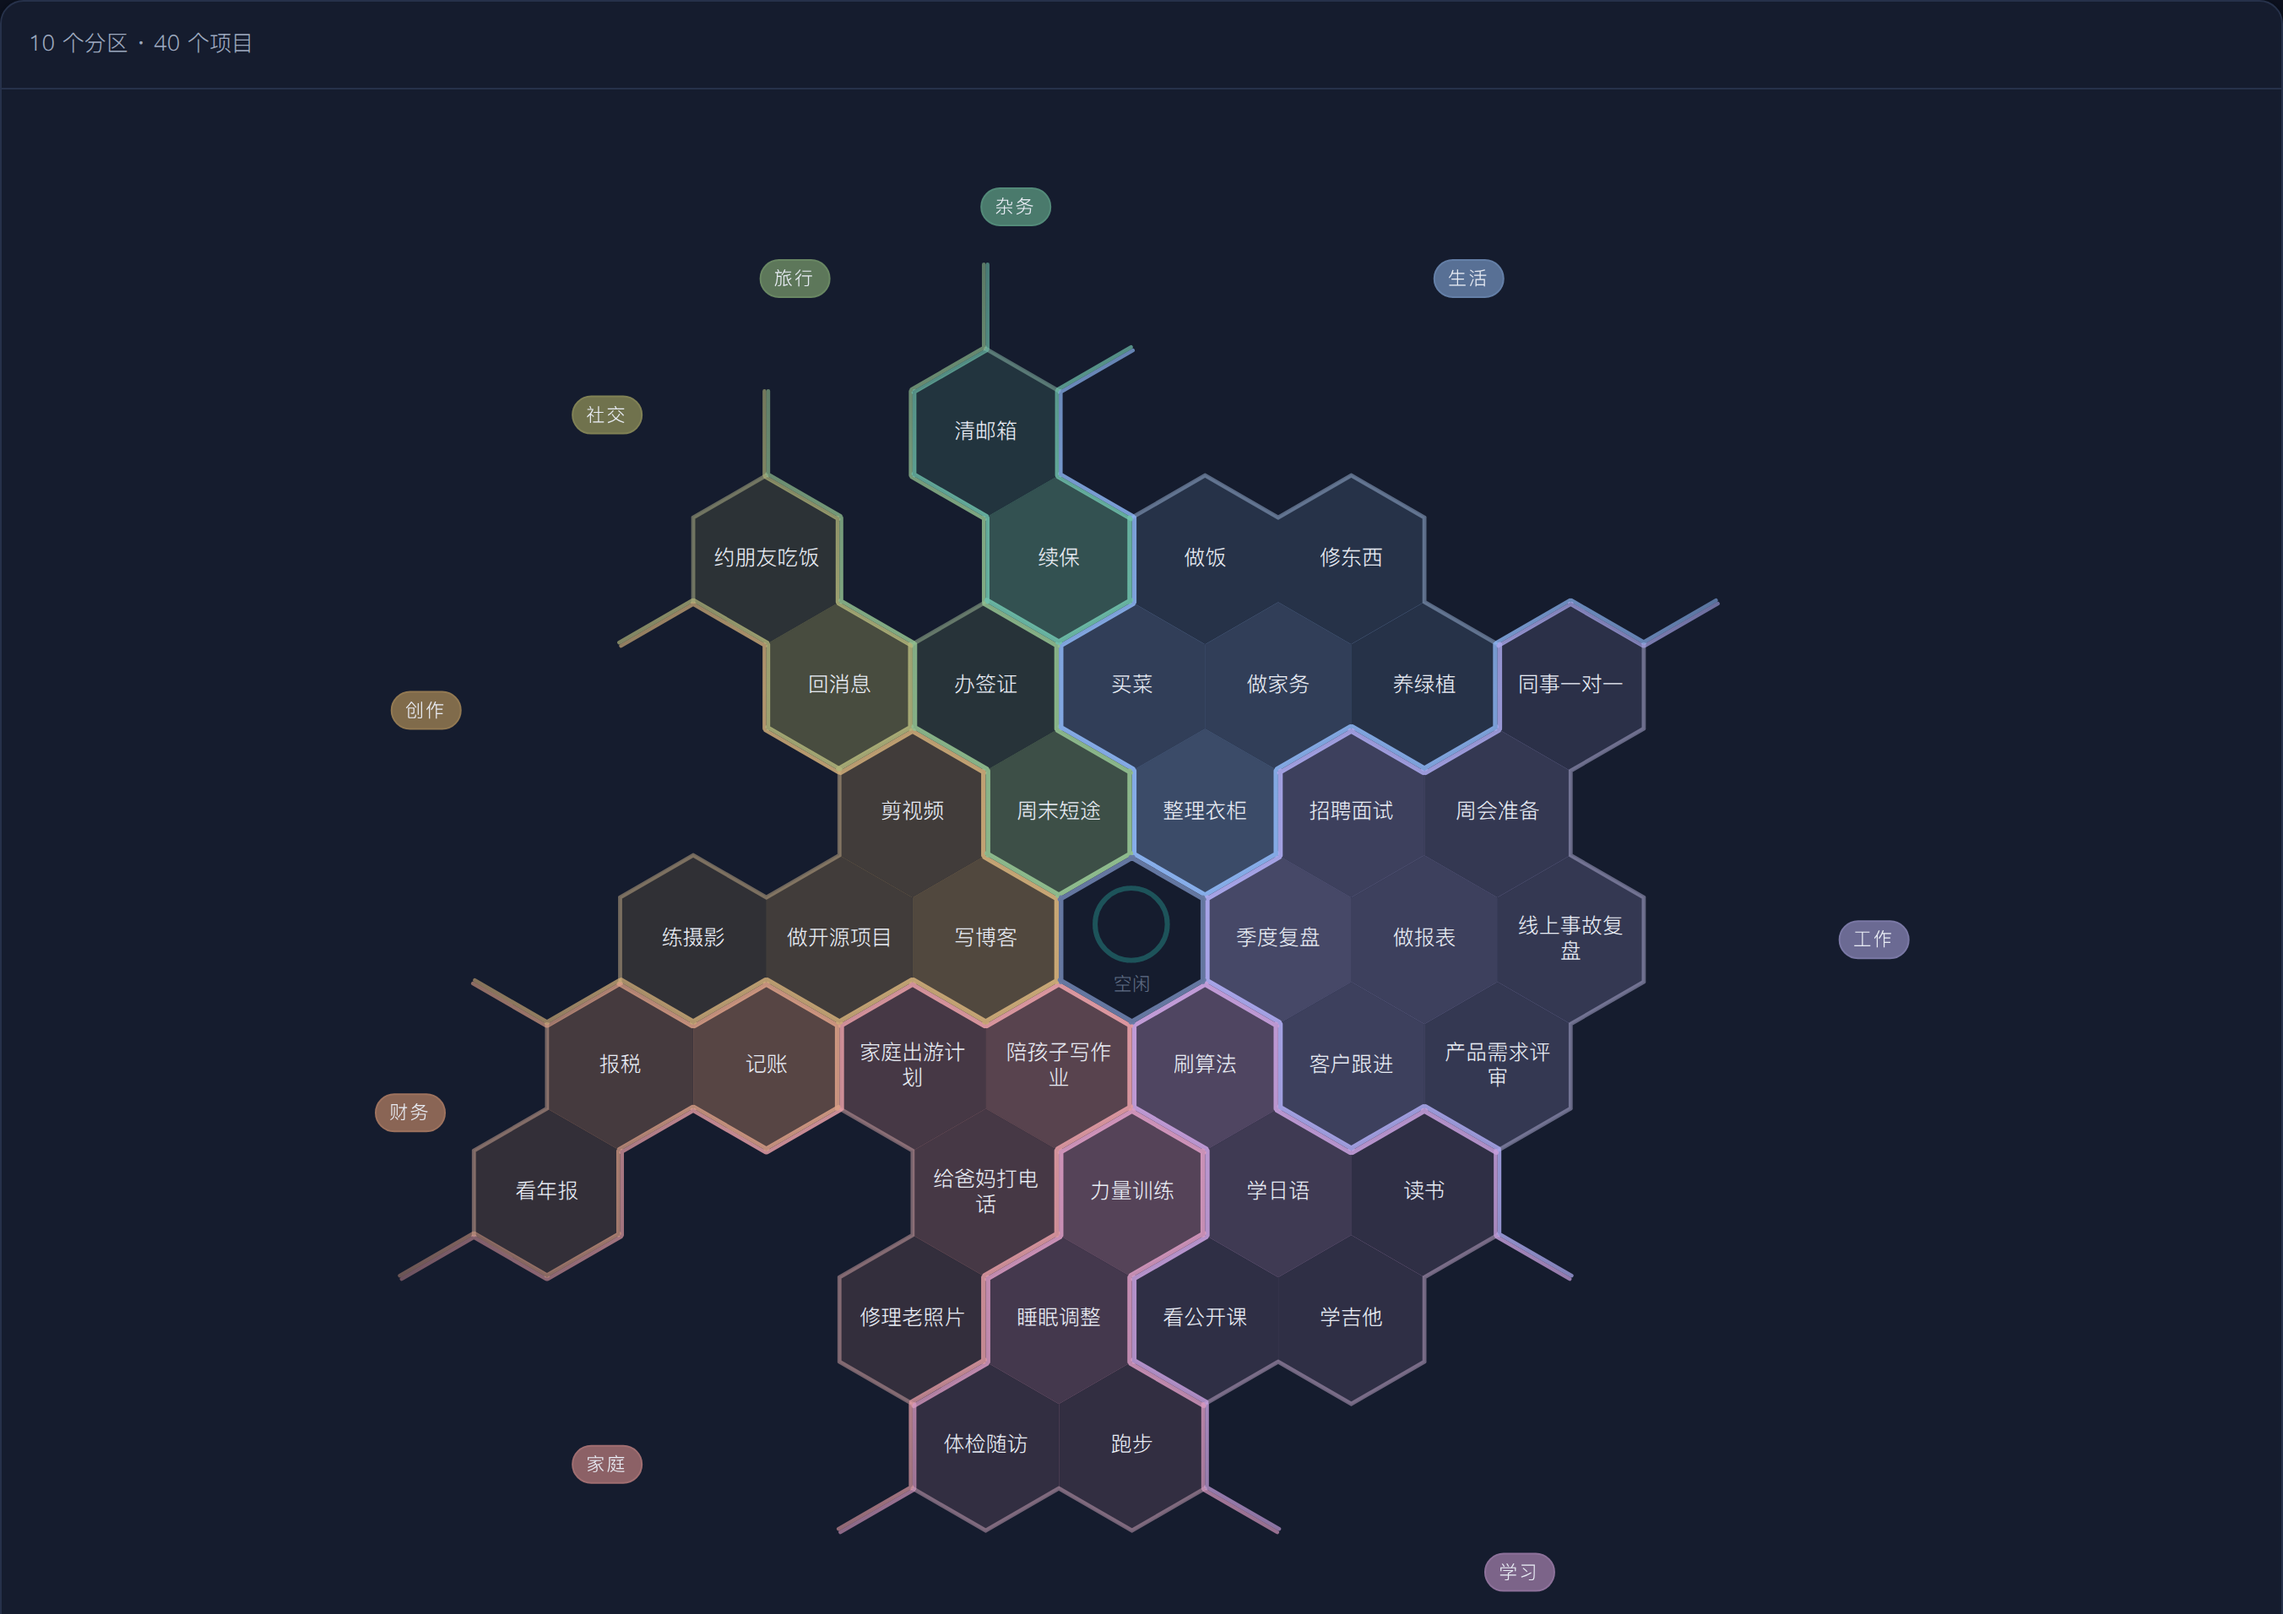
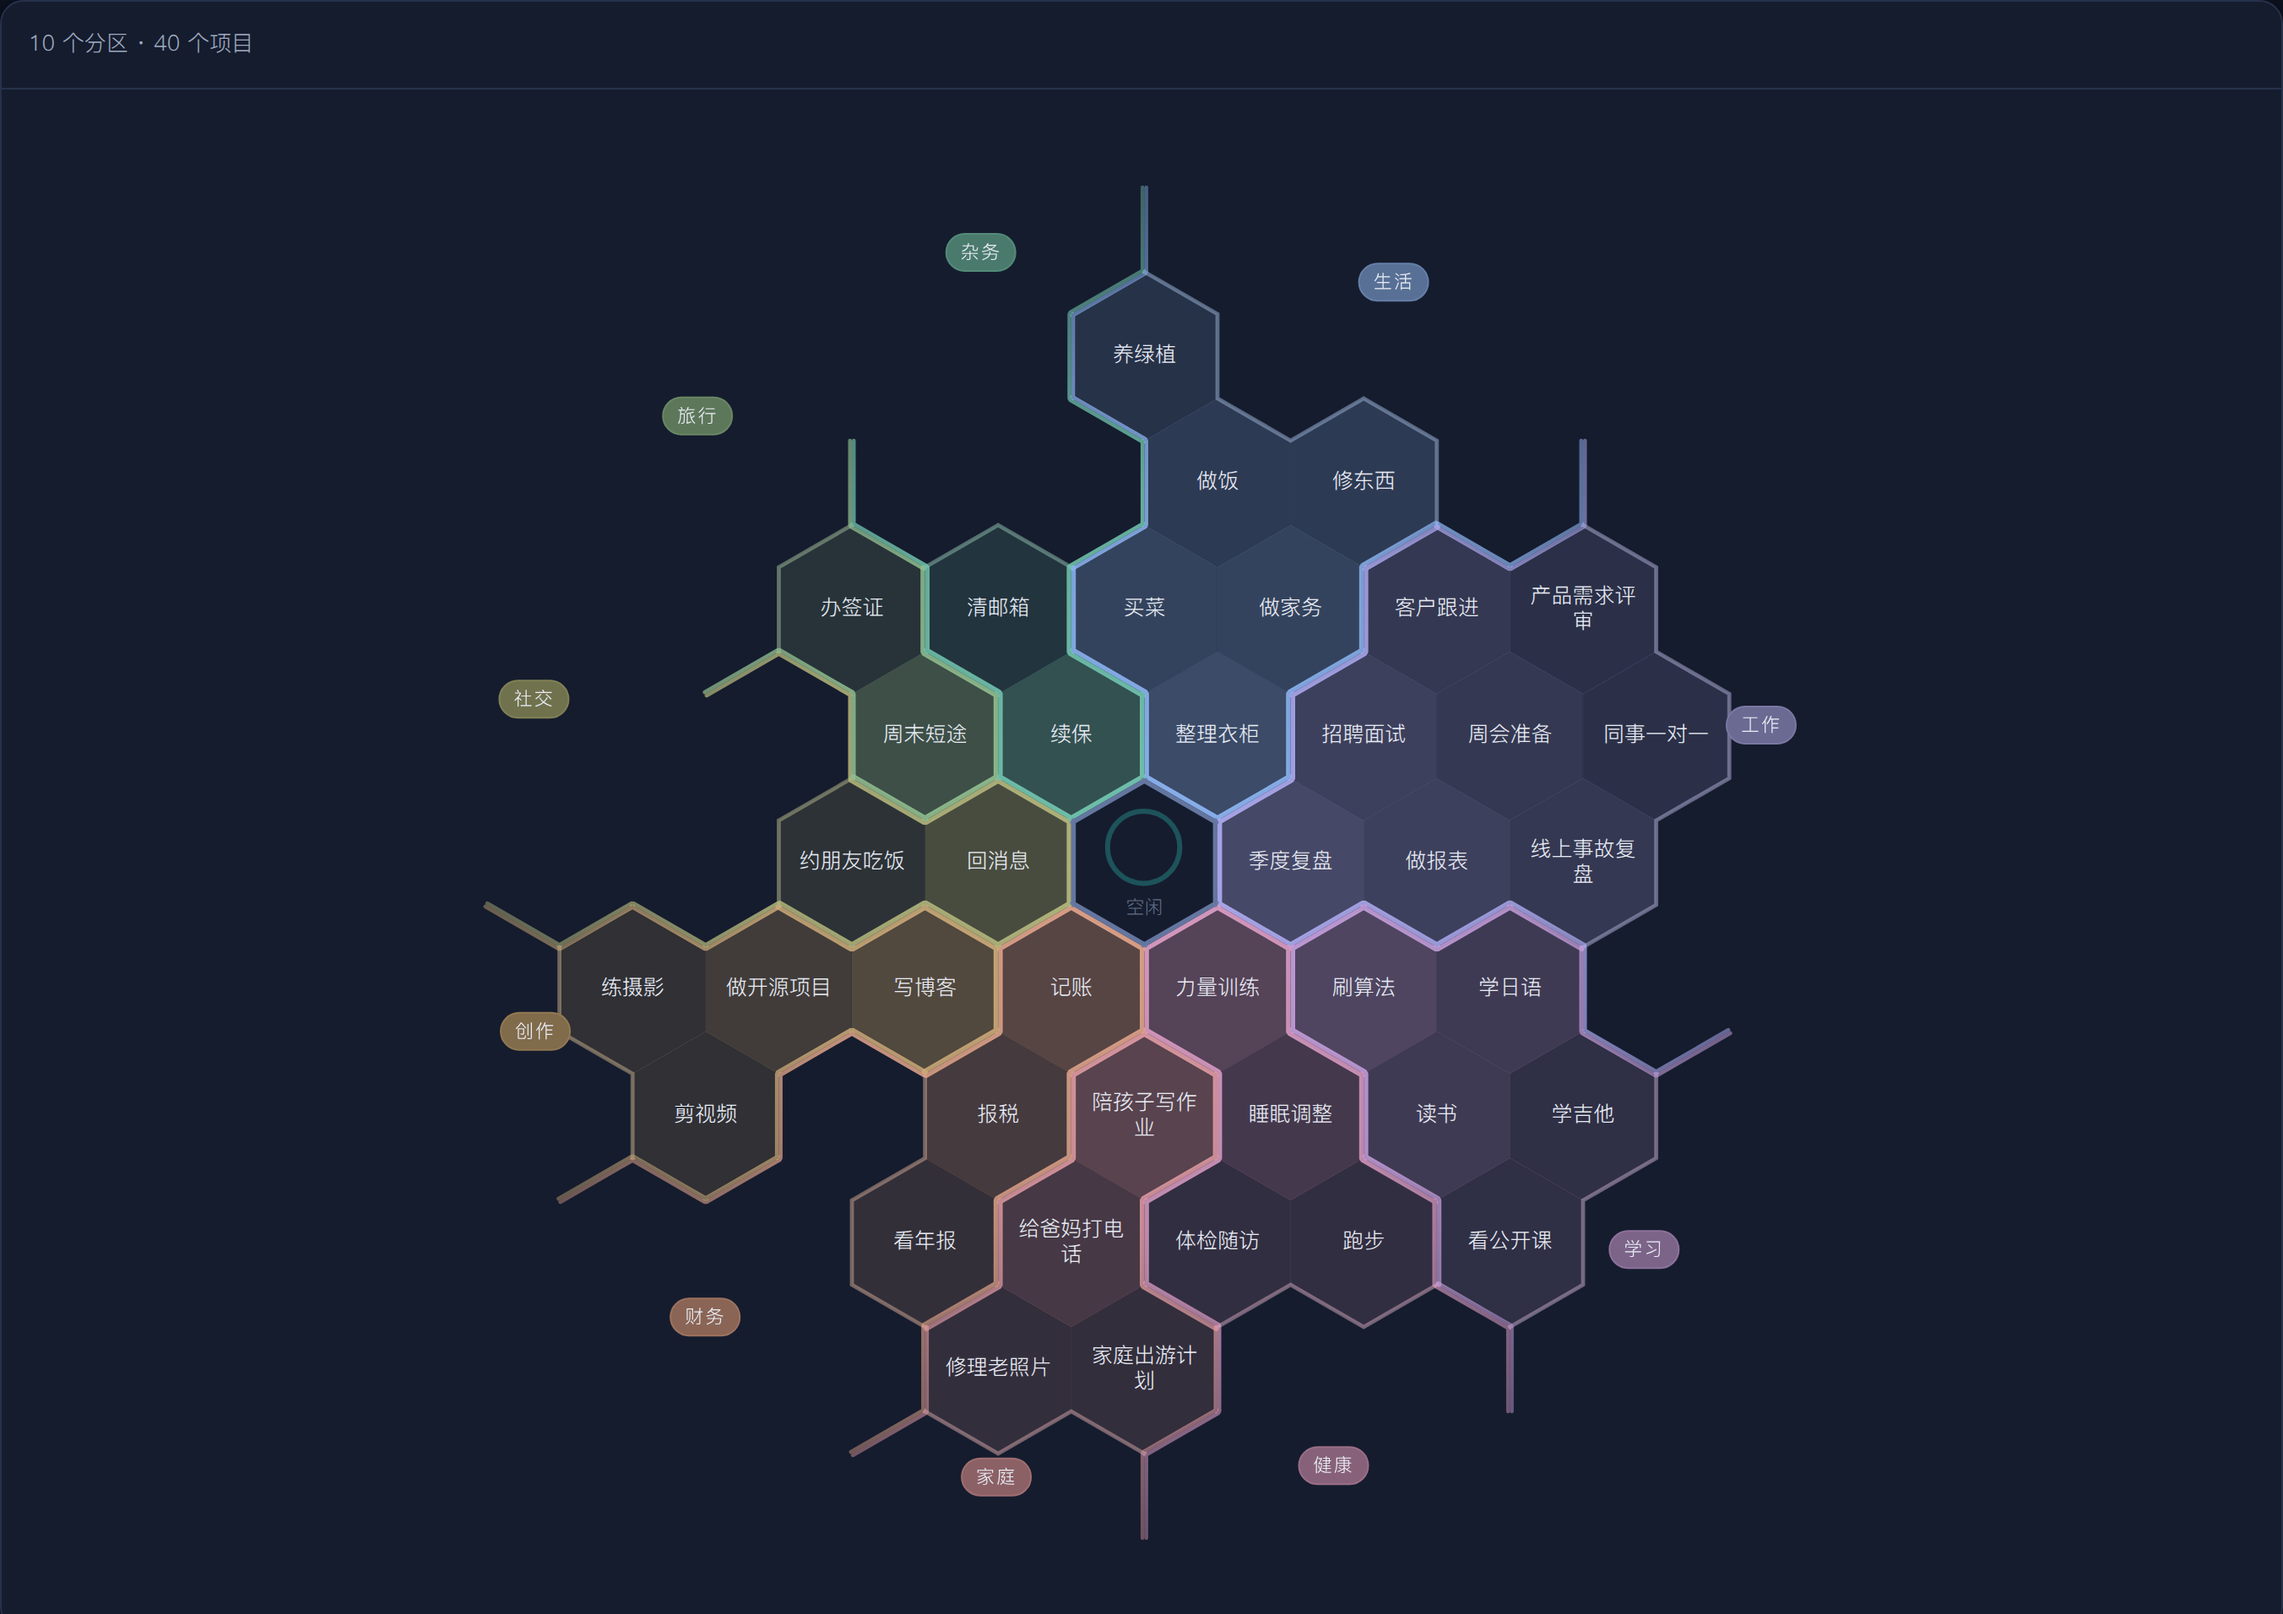
feat(hex): 冷区权重补贴——扇区窄到内圈够不着的，给一份 30° 角度下限
扇区 ∝ 项目数，窄到一定程度内圈一个格位中心都不落进来（几何问题，不是排队问题）：
10 区/40 项目下财务 27° 落在 243°–270°，第 1/2 圈的格位中心一个都不含，
于是三个项目沿半径串成一根刺，最外那格孤零零挂着。

subsidizeColdWeights()：够不着第 2 圈的分区拿 30° 角度下限，其余按项目数瓜分
剩下角度、彼此比例不变；迭代到稳定；下限合计超 60% 整圈就整体放弃。

同批修两个浮点 bug：buildSectors 各自算角宽再累加、inSector 的 %360 规范化往返，
两者都会让边界角上两个分区同时认领（射线唯一性当场破）。

真机 10 区/40 项目：maxRing 5→4，最晚起始圈 3→2，孤格没了，无空圈，0 console error。
头图换成补贴后的那张。

Claude-Session: https://claude.ai/code/session_016jG8nqYD4Mu73Bf8jpe7Hz

diff --git a/web/hex-data.js b/web/hex-data.js
@@ -197,20 +197,33 @@
   function isNeighbor(a, b) { return axialDistance(a, b) === 1; }
 
   // 扇区：角度 ∝ 权重，首尾相接铺满 360°。
+  // ⚠ 分界必须**先算边、再由边减出角宽**，不能各自算角宽再累加。
+  // 各自算再累加时 `start + sweep` 和下一个 `start` 是两条不同的浮点路径，
+  // 边界角上两个分区可以同时判真 —— 「射出去只碰到一个分区」那条不变式当场破。
+  // 权重从整数（项目数）变成小数（冷区补贴）之后真的撞上了：300° 上两个分区。
+  // 由边减出角宽后，边界处 (x - edges[k]) < (edges[k+1] - edges[k]) 两边是同一次
+  // 浮点运算，恒为假，重叠在数学上就不可能了。最后一条边钉死 360，末尾不留缝。
   function buildSectors(weights) {
     var total = weights.reduce(function (a, b) { return a + b; }, 0) || 1;
-    var acc = 0;
-    return weights.map(function (w) {
-      var sweep = 360 * w / total;
-      var sec = { start: acc, sweep: sweep, center: acc + sweep / 2 };
-      acc += sweep;
-      return sec;
+    var edges = [0], acc = 0;
+    weights.forEach(function (w) { acc += w; edges.push(360 * acc / total); });
+    edges[edges.length - 1] = 360;
+    return weights.map(function (_, i) {
+      return { start: edges[i], sweep: edges[i + 1] - edges[i],
+               center: edges[i] + (edges[i + 1] - edges[i]) / 2 };
     });
   }
 
+  // ⚠ 不许写成 `((angle - start) % 360 + 360) % 360`：那个规范化往返会把值**改掉**。
+  // 实测 47.647058823529406 走一趟 +360 再 %360 就变成 47.64705882352939，
+  // 于是边界角上 a < sweep 由假变真，两个分区同时认领 300°（单测「射出去只碰到
+  // 一个分区」当场红）。这里只在真的越界时加/减一次 360，落在 [0,360) 的常路
+  // 一次浮点运算都不做，差值精确。
   function inSector(angle, sec) {
-    var a = ((angle - sec.start) % 360 + 360) % 360;
-    return a < sec.sweep;
+    var a = angle - sec.start;
+    if (a < 0) a += 360;
+    else if (a >= 360) a -= 360;
+    return a >= 0 && a < sec.sweep;
   }
 
   // 一圈圈往外发格子，直到每个分区都拿够。
@@ -627,6 +640,71 @@
     return +(DEPTH_MIX.max - d * (DEPTH_MIX.max - DEPTH_MIX.min)).toFixed(2);
   }
 
+  // ── 冷区权重补贴（2026-09-14，人类判：「给冷区（第二圈都排不上的）加一个权重补贴」）──
+  //
+  // 病灶：扇区角度 ∝ 项目数，项目少的分区扇区就窄；窄到一定程度，**内圈根本没有
+  // 一个格位中心落在它里面** —— 这不是"被热区抢走了"，是几何上就没有位置。
+  // 真机 10 区 / 40 项目：财务 3 个项目 ⇒ 扇区 27°，落在 243°–270°；
+  // 第 1 圈格位中心在 0/60/…/240/300（60° 一格），第 2 圈在 0/30/…/240/270（30° 一格）
+  // —— 243°–270° 这个半开区间一个都不含，于是财务的第一格只能等到第 3 圈
+  // （20° 一格，260° 落进来了），三个项目沿半径串成一根刺，最外那格孤零零挂在外面。
+  //
+  // 所以补贴必须加在**权重**上（＝扇区角度），不是加在挑格顺序上：
+  // 顺序再靠前，自己扇区里没有格位也一样领不到。（先做的顺序补贴版实测
+  // 前后完全一样，就是这个原因。）
+  //
+  // 补法：给"第 COLD_START_RING 圈以内一个格位中心都够不着"的分区一个**角度下限**
+  // ——够得着第 2 圈就行，也就是 slotWidthDeg(2) = 30°。长度 ≥ 30° 的半开区间
+  // 必然含一个 30 的倍数，所以这个下限是**够用且最小**的，不多占一度。
+  // 其余分区按项目数瓜分剩下的角度，比例关系不变。
+  //
+  // ⚠ 要迭代：把一个分区撑宽会把后面所有分区的起始角推走，可能把原本够得着的
+  // 挤成够不着。所以反复算到集合稳定（最多 COLD_ROUNDS 轮）。
+  // ⚠ 要有刹车：补贴总量超过 COLD_BUDGET 就整体放弃 —— 分区多到人人都要补时，
+  // "按项目数分角度"这条读图规则会被补成一锅平均，那还不如留着那根刺。
+  var COLD_START_RING = 2;
+  var COLD_ROUNDS = 6;
+  var COLD_BUDGET = 0.6;          // 补贴后的下限合计不许超过整圈的 60%
+
+  // 第 d 圈有没有格位中心落在这个扇区里（只看几何，不看谁占了）。
+  function sectorHasSlot(sec, d) {
+    var ring = hexRing(d);
+    for (var i = 0; i < ring.length; i++) {
+      if (inSector(ring[i].angleDeg, sec)) return true;
+    }
+    return false;
+  }
+  function reachesInner(sec) {
+    for (var d = 1; d <= COLD_START_RING; d++) if (sectorHasSlot(sec, d)) return true;
+    return false;
+  }
+
+  // 返回补贴后的权重（数组）。没有分区需要补贴时原样返回入参。
+  function subsidizeColdWeights(counts) {
+    var floorShare = slotWidthDeg(COLD_START_RING) / 360;   // 30/360
+    var weights = counts.slice();
+    var cold = counts.map(function () { return false; });
+    for (var round = 0; round < COLD_ROUNDS; round++) {
+      var secs = buildSectors(weights);
+      var changed = false;
+      for (var i = 0; i < secs.length; i++) {
+        if (!cold[i] && !reachesInner(secs[i])) { cold[i] = true; changed = true; }
+      }
+      if (!changed) break;
+      var coldN = cold.filter(Boolean).length;
+      if (coldN * floorShare > COLD_BUDGET) return counts;   // 刹车：补不起就不补
+      // 冷区各拿 floorShare，其余按项目数瓜分剩下的。
+      var rest = 1 - coldN * floorShare;
+      var restTotal = 0;
+      counts.forEach(function (c, k) { if (!cold[k]) restTotal += c; });
+      weights = counts.map(function (c, k) {
+        if (cold[k]) return floorShare;
+        return restTotal > 0 ? rest * c / restTotal : rest / Math.max(1, counts.length - coldN);
+      });
+    }
+    return cold.some(Boolean) ? weights : counts;
+  }
+
   function buildHoneycomb(tree, opts) {
     opts = opts || {};
     var heat = opts.heat || {};
@@ -669,7 +747,8 @@
     // （落点在 hex-app.js::bindBlankPress）。这里回到只按项目数分格。
     // Math.max(1, n)：一个项目都没有的分区也占一格，否则分区本身会消失。
     var counts = zones.map(function (z) { return Math.max(1, byZone[z.id].length); });
-    var sectors = buildSectors(counts);
+    // 扇区角度 ∝ 项目数；只有"内圈一个格位都够不着"的冷区拿一份角度下限补贴。
+    var sectors = buildSectors(subsidizeColdWeights(counts));
     // 分区热度 = 它名下项目的热度之和。热的先挑格 → 整体更靠近中心。
     var zoneHeat = zones.map(function (z) {
       return byZone[z.id].reduce(function (a, p) { return a + (heat[p.id] || 0); }, 0);
@@ -961,6 +1040,9 @@
     buildSectors: buildSectors,
     inSector: inSector,
     allocateSectorCells: allocateSectorCells,
+    subsidizeColdWeights: subsidizeColdWeights,
+    reachesInner: reachesInner,
+    COLD_START_RING: COLD_START_RING,
 
     parseHexColor: parseHexColor,
     isDefaultZoneColor: isDefaultZoneColor,
